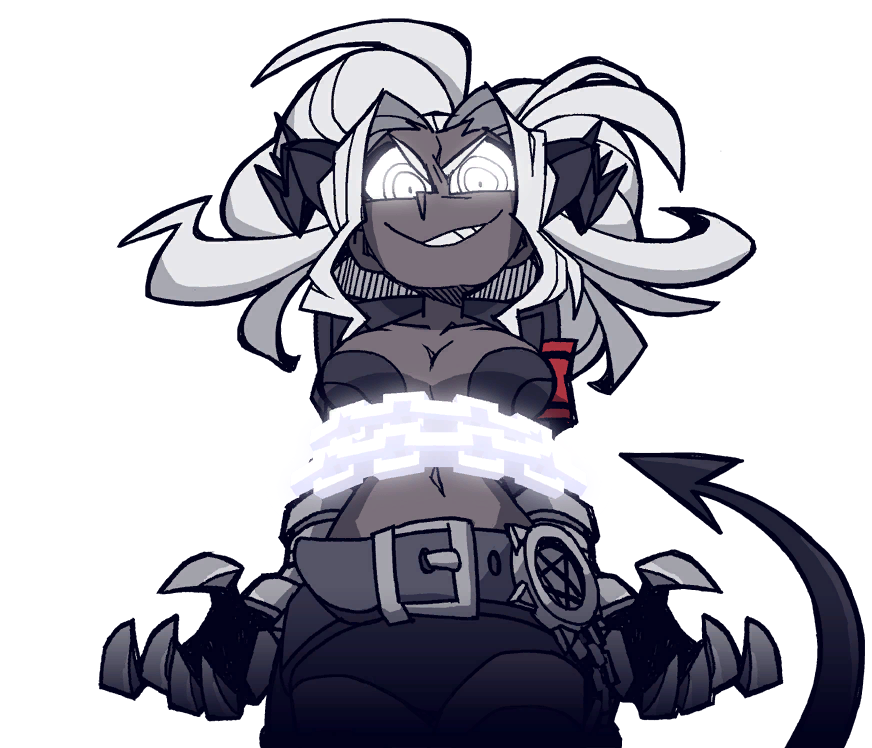
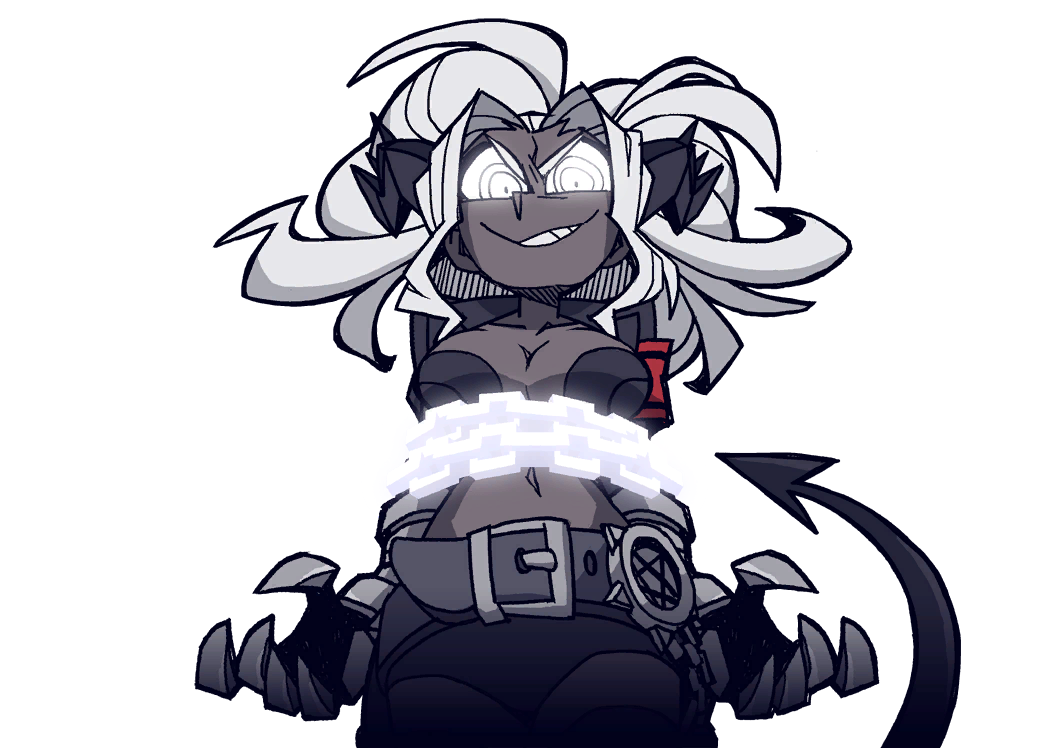
Sin_Judge : Bind 애니메이션 시작 및 리소스 수정

Changed region(s): [[0.1239, 0.0307, 0.867, 0.5842], [0.0929, 0.5842, 1.0, 1.0], [0.5573, 0.861, 0.5883, 0.8917]]

diff --git a/Helltaker/Helltaker_Contents/Sin_Judge.cpp b/Helltaker/Helltaker_Contents/Sin_Judge.cpp
@@ -202,6 +202,39 @@ void Sin_Judge::ChainFadeInUpdate(float _DeltaTime)
 	}
 }
 
+void Sin_Judge::Chap3_BindStart()
+{
+	ChainRendererOff();
+	
+	FVector WinScale = ContentsHelper::GetWindowScale();
+	FVector Scale = { 0.0f, 0.0f };
+	FVector Pos = { 0.0f, 0.0f };
+	GetImageRenderer()->CreateAnimation("Bind_Start", "Jud_BindAnim", 0, 7, 0.02f, false);
+	GetImageRenderer()->AnimationReset();
+	GetImageRenderer()->ChangeAnimation("Bind_Start");
+	GetImageRenderer()->SetTransform({ WinScale * Pos, WinScale * Scale });
+
+}
+
+void Sin_Judge::Chap3_Bind()
+{
+
+}
+
+void Sin_Judge::ChainRendererOff()
+{
+	for (UImageRenderer* Chain : ChainRenderer)
+	{
+		if (nullptr == Chain)
+		{
+			MsgBoxAssert("Renderer is nullptr");
+		}
+
+		Chain->ActiveOff();
+		Chain->Destroy();
+		Chain = nullptr;
+	}
+}
 
 void Sin_Judge::Chap3_FlyStart()
 {	
@@ -259,6 +292,9 @@ void Sin_Judge::StateUpdate(float _DeltaTime)
 	case ESinJudgeState::Chap3_Chain:
 		Chap3_Chain(_DeltaTime);
 		break;
+	case ESinJudgeState::Chap3_Bind:
+		Chap3_Bind();
+		break;
 	case ESinJudgeState::Chap3_Fly:
 		Chap3_Fly();
 		break;
@@ -276,6 +312,9 @@ void Sin_Judge::StateChange(ESinJudgeState _State)
 			break;
 		case ESinJudgeState::Chap3_Chain:
 			Chap3_ChainStart();
+			break;
+		case ESinJudgeState::Chap3_Bind:
+			Chap3_BindStart();
 			break;
 		case ESinJudgeState::Chap3_Fly:
 			Chap3_FlyStart();

diff --git a/Helltaker/Helltaker_Contents/Sin_Judge.h b/Helltaker/Helltaker_Contents/Sin_Judge.h
@@ -34,6 +34,11 @@ private:
 	void ChainFadeOutUpdate(float _DeltaTime);
 	void ChainFadeInUpdate(float _DeltaTime);
 
+	void Chap3_BindStart();
+	void Chap3_Bind();
+
+	void ChainRendererOff();
+
 	void Chap3_FlyStart();
 	void Chap3_Fly();
 	void Chap3_Fly1();

diff --git a/Helltaker/Helltaker_Contents/ContentsHelper.h b/Helltaker/Helltaker_Contents/ContentsHelper.h
@@ -453,6 +453,7 @@ enum class ESinJudgeState
 	None,
 	Intro_Appear,
 	Chap3_Chain,
+	Chap3_Bind,
 	Chap3_Fly
 };
 
